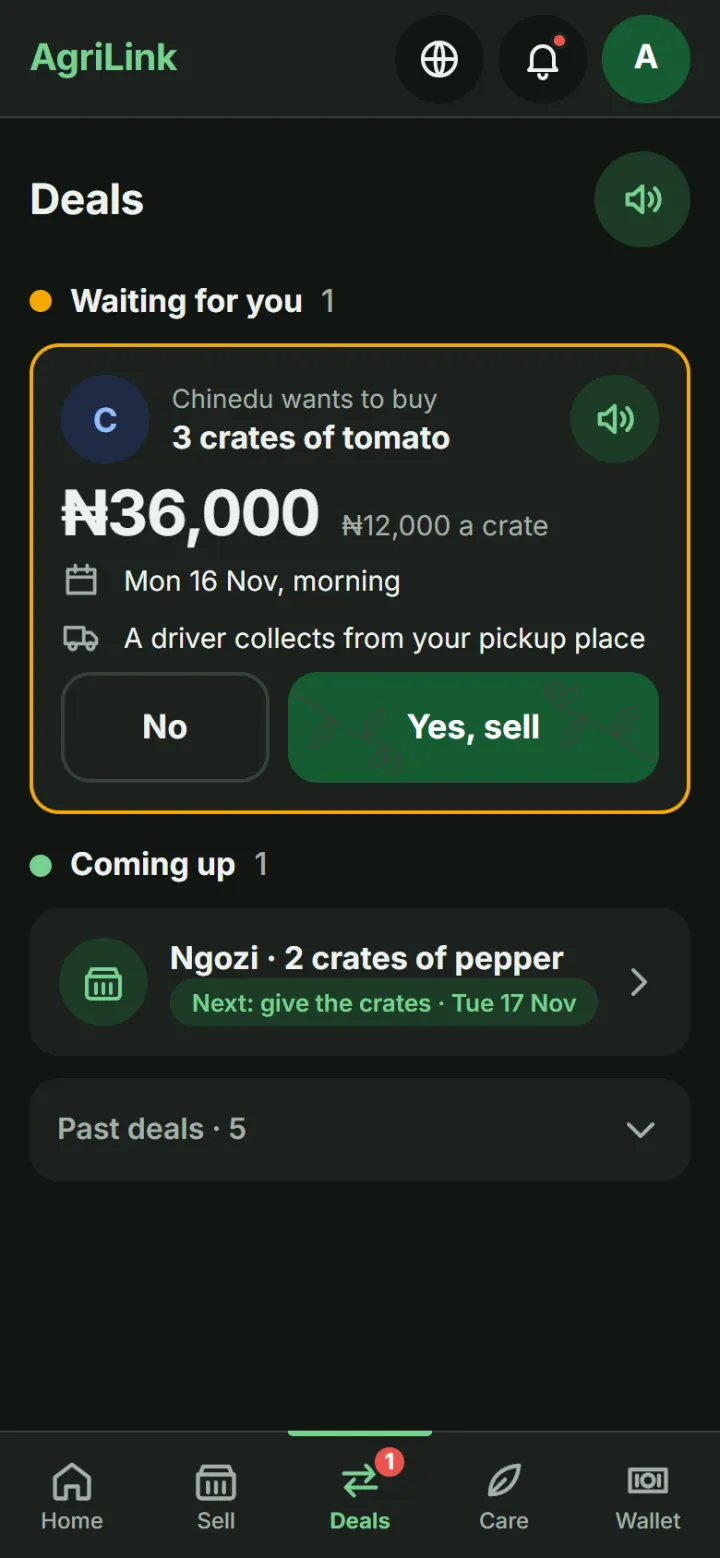
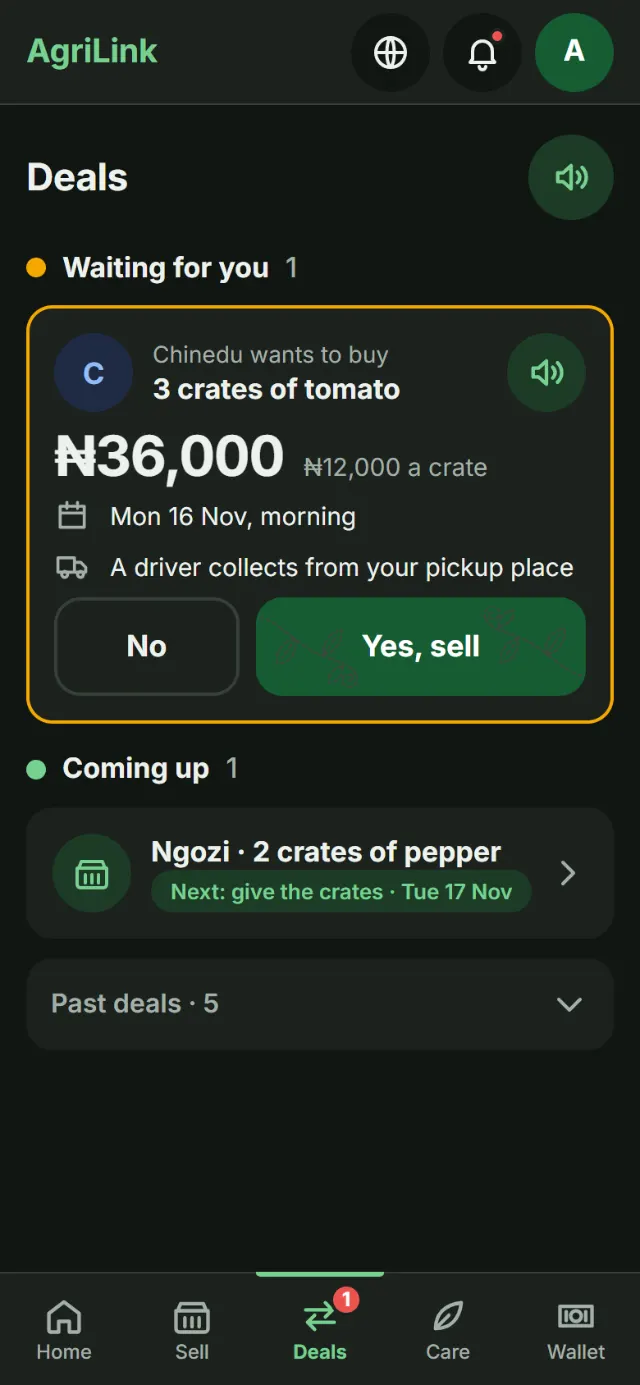
iPad fixes: still word on touch screens, faster screenshots, full offline copy
- Touch screens (phones, tablets) get the still version of the AGRILINK word
  and no scroll-linked motion: there the page scroll is drawn before the
  script can hold the story panel in place, so the panel jumped (seen on iPad).
  Mouse and trackpad screens keep the full effect.
- How it works: only the current theme's screenshot is fetched; the first one
  at once, the others about a screen and a half before they are reached
  (Safari's own lazy loading starts very late). Screenshots are now 640 px
  wide (sharp at 2x on the phone frame), 475 KB -> 393 KB for all ten.
- Offline: version 20. The first view is saved while the worker installs; a few
  seconds after load the rest (both themes' screenshots, photos, icons) is
  saved one file at a time. The films are never saved. Old copies are removed.

Changed region(s): [[0.75, 0.4036, 0.7812, 0.4347]]

diff --git a/index.html b/index.html
@@ -35,9 +35,9 @@
     d.classList.add('js');
   })();
 </script>
-<link rel="stylesheet" href="./base.css?v=19">
-<link rel="stylesheet" href="./hero.css?v=19">
-<link rel="stylesheet" href="./pitch.css?v=19">
+<link rel="stylesheet" href="./base.css?v=20">
+<link rel="stylesheet" href="./hero.css?v=20">
+<link rel="stylesheet" href="./pitch.css?v=20">
 </head>
 <body>
 <svg width="0" height="0" style="position:absolute" aria-hidden="true">
@@ -137,23 +137,23 @@
     </div>
     <div class="services">
       <article>
-        <figure class="shot" data-speed="0.04" data-max="16"><img class="shot-light" src="./assets/app/screen-sell-light.webp" width="720" height="1558" loading="lazy" decoding="async" alt="AgriLink screen, Sell a harvest, step 4 of 4, Is this right?: Tomato, 20 crates, 12,000 naira a crate, the collection days and the pickup place, with a Start selling button."><img class="shot-dark" src="./assets/app/screen-sell-dark.webp" width="720" height="1558" loading="lazy" decoding="async" alt="AgriLink screen, Sell a harvest, step 4 of 4, Is this right?: Tomato, 20 crates, 12,000 naira a crate, the collection days and the pickup place, with a Start selling button."></figure>
+        <figure class="shot" data-speed="0.04" data-max="16"><img class="shot-light" src="./assets/app/screen-sell-light.webp" width="640" height="1385" loading="lazy" decoding="async" alt="AgriLink screen, Sell a harvest, step 4 of 4, Is this right?: Tomato, 20 crates, 12,000 naira a crate, the collection days and the pickup place, with a Start selling button."><img class="shot-dark" src="./assets/app/screen-sell-dark.webp" width="640" height="1385" loading="lazy" decoding="async" alt="AgriLink screen, Sell a harvest, step 4 of 4, Is this right?: Tomato, 20 crates, 12,000 naira a crate, the collection days and the pickup place, with a Start selling button."></figure>
         <div><small><svg class="ico" aria-hidden="true"><use href="#i-crate"/></svg>Step 1</small><h3>List your crates</h3><p>Tap Tomato or Pepper, set the number of crates and the price, and choose when buyers can collect. With no signal, it saves on the phone and sends later.</p></div>
       </article>
       <article>
-        <figure class="shot" data-speed="0.04" data-max="16"><img class="shot-light" src="./assets/app/screen-deals-light.webp" width="720" height="1558" loading="lazy" decoding="async" alt="AgriLink screen, Deals: Chinedu wants to buy 3 crates of tomato for 36,000 naira, 12,000 naira a crate, with No and Yes, sell buttons."><img class="shot-dark" src="./assets/app/screen-deals-dark.webp" width="720" height="1558" loading="lazy" decoding="async" alt="AgriLink screen, Deals: Chinedu wants to buy 3 crates of tomato for 36,000 naira, 12,000 naira a crate, with No and Yes, sell buttons."></figure>
+        <figure class="shot" data-speed="0.04" data-max="16"><img class="shot-light" src="./assets/app/screen-deals-light.webp" width="640" height="1385" loading="lazy" decoding="async" alt="AgriLink screen, Deals: Chinedu wants to buy 3 crates of tomato for 36,000 naira, 12,000 naira a crate, with No and Yes, sell buttons."><img class="shot-dark" src="./assets/app/screen-deals-dark.webp" width="640" height="1385" loading="lazy" decoding="async" alt="AgriLink screen, Deals: Chinedu wants to buy 3 crates of tomato for 36,000 naira, 12,000 naira a crate, with No and Yes, sell buttons."></figure>
         <div><small><svg class="ico" aria-hidden="true"><use href="#i-exchange"/></svg>Step 2</small><h3>Receive offers directly from buyers</h3><p>Buyers make an offer. The farmer sees the price for each crate and what they will get, then answers Yes or No. Phone numbers stay private.</p></div>
       </article>
       <article>
-        <figure class="shot" data-speed="0.04" data-max="16"><img class="shot-light" src="./assets/app/screen-driver-light.webp" width="720" height="1558" loading="lazy" decoding="async" alt="AgriLink screen, a buyer following a delivery: a map of the route to Bunkure, the steps Sold, Picked up, On the road and Arrived, and Musa is your driver."><img class="shot-dark" src="./assets/app/screen-driver-dark.webp" width="720" height="1558" loading="lazy" decoding="async" alt="AgriLink screen, a buyer following a delivery: a map of the route to Bunkure, the steps Sold, Picked up, On the road and Arrived, and Musa is your driver."></figure>
+        <figure class="shot" data-speed="0.04" data-max="16"><img class="shot-light" src="./assets/app/screen-driver-light.webp" width="640" height="1385" loading="lazy" decoding="async" alt="AgriLink screen, a buyer following a delivery: a map of the route to Bunkure, the steps Sold, Picked up, On the road and Arrived, and Musa is your driver."><img class="shot-dark" src="./assets/app/screen-driver-dark.webp" width="640" height="1385" loading="lazy" decoding="async" alt="AgriLink screen, a buyer following a delivery: a map of the route to Bunkure, the steps Sold, Picked up, On the road and Arrived, and Musa is your driver."></figure>
         <div><small><svg class="ico" aria-hidden="true"><use href="#i-truck"/></svg>Step 3</small><h3>Find a driver</h3><p>For delivery, AgriLink finds a driver. The buyer can follow the truck on a map, and both sides confirm how many crates arrived.</p></div>
       </article>
       <article>
-        <figure class="shot" data-speed="0.04" data-max="16"><img class="shot-light" src="./assets/app/screen-cold-light.webp" width="720" height="1558" loading="lazy" decoding="async" alt="AgriLink screen, Keep crates cold: Tomato with 40 crates left is chosen, 10 crates for 3 days, Cold Room A in Kura is chosen, and the Book button is ready."><img class="shot-dark" src="./assets/app/screen-cold-dark.webp" width="720" height="1558" loading="lazy" decoding="async" alt="AgriLink screen, Keep crates cold: Tomato with 40 crates left is chosen, 10 crates for 3 days, Cold Room A in Kura is chosen, and the Book button is ready."></figure>
+        <figure class="shot" data-speed="0.04" data-max="16"><img class="shot-light" src="./assets/app/screen-cold-light.webp" width="640" height="1385" loading="lazy" decoding="async" alt="AgriLink screen, Keep crates cold: Tomato with 40 crates left is chosen, 10 crates for 3 days, Cold Room A in Kura is chosen, and the Book button is ready."><img class="shot-dark" src="./assets/app/screen-cold-dark.webp" width="640" height="1385" loading="lazy" decoding="async" alt="AgriLink screen, Keep crates cold: Tomato with 40 crates left is chosen, 10 crates for 3 days, Cold Room A in Kura is chosen, and the Book button is ready."></figure>
         <div><small><svg class="ico" aria-hidden="true"><use href="#i-snow"/></svg>Step 4</small><h3>Book cold-room space</h3><p>Crates that cannot go today can wait in a cold room, booked from the phone. In the demo, the cold rooms are examples and nothing is charged.</p></div>
       </article>
       <article>
-        <figure class="shot" data-speed="0.04" data-max="16"><img class="shot-light" src="./assets/app/screen-plant-light.webp" width="720" height="1558" loading="lazy" decoding="async" alt="AgriLink screen, Plant check: a photo of a tomato leaf with spots, Possibly leaf spot, and three simple steps under What to do."><img class="shot-dark" src="./assets/app/screen-plant-dark.webp" width="720" height="1558" loading="lazy" decoding="async" alt="AgriLink screen, Plant check: a photo of a tomato leaf with spots, Possibly leaf spot, and three simple steps under What to do."></figure>
+        <figure class="shot" data-speed="0.04" data-max="16"><img class="shot-light" src="./assets/app/screen-plant-light.webp" width="640" height="1385" loading="lazy" decoding="async" alt="AgriLink screen, Plant check: a photo of a tomato leaf with spots, Possibly leaf spot, and three simple steps under What to do."><img class="shot-dark" src="./assets/app/screen-plant-dark.webp" width="640" height="1385" loading="lazy" decoding="async" alt="AgriLink screen, Plant check: a photo of a tomato leaf with spots, Possibly leaf spot, and three simple steps under What to do."></figure>
         <div><small><svg class="ico" aria-hidden="true"><use href="#i-leaf"/></svg>And more</small><h3>Check a sick plant</h3><p>A photo of a leaf gives a first idea of what may be wrong and simple steps for today. It is guidance, not a diagnosis.</p></div>
       </article>
     </div>
@@ -262,8 +262,8 @@
   </div>
 </footer>
 
-<script src="./hero.js?v=19"></script>
-<script src="./pitch.js?v=19"></script>
-<script src="./app.js?v=19"></script>
+<script src="./hero.js?v=20"></script>
+<script src="./pitch.js?v=20"></script>
+<script src="./app.js?v=20"></script>
 </body>
 </html>

diff --git a/sw.js b/sw.js
@@ -1,26 +1,45 @@
-// Network first, the cached copy when offline. A new cache name for each release: the old one is deleted on
-// activate, so returning visitors get the new site (v19: light and dark app screenshots, new Step 1 and Step 4).
-const cacheName = 'agrilink-site-v19';
+// Offline copy of the site. Network first, the saved copy when offline. Version 20: after the first visit the
+// whole site (both light and dark screenshots, photos, fonts, icons) is saved quietly in the background, so it
+// opens complete offline. Each version has its own cache; old ones are deleted when this one takes over.
+// All paths are relative, so this works at the github.io sub-folder (/agrilink/) too. The films (.mp4) are
+// never saved.
+const cacheName = 'agrilink-site-v20';
 // The ?v= on styles and scripts matches index.html, so a new page never runs an old script from a browser cache.
-const v = '?v=19';
+const v = '?v=20';
+// What the first view needs: saved while the worker installs.
 const core = ['./', './index.html', './base.css' + v, './hero.css' + v, './pitch.css' + v, './hero.js' + v, './pitch.js' + v, './app.js' + v,
-  './assets/word.svg', './assets/harvest.jpg', './assets/favicon.svg', './assets/fonts/inter-latin.woff2', './assets/fonts/inter-latin-ext.woff2',
-  './assets/happy-farmers-720.webp']; // screenshots and photos are kept as they are viewed (below);
-self.addEventListener('install', (event) => event.waitUntil(caches.open(cacheName).then((cache) => cache.addAll(core.map((url) => new Request(url, { cache: 'reload' })))).then(() => self.skipWaiting())));
+  './assets/word.svg', './assets/harvest.jpg', './assets/favicon.svg', './assets/fonts/inter-latin.woff2', './assets/fonts/inter-latin-ext.woff2'];
+// Everything else: saved after the page has loaded (the page asks, see app.js), one file at a time.
+const rest = ['./assets/happy-farmers-720.webp', './assets/happy-farmers.webp', './assets/happy-farmers.jpg', './assets/tomato.webp', './assets/pepper.webp',
+  './assets/apple-touch-icon.png', './assets/og-image.jpg',
+  ...['sell', 'deals', 'driver', 'cold', 'plant'].flatMap((n) => [`./assets/app/screen-${n}-light.webp`, `./assets/app/screen-${n}-dark.webp`])];
+
+const fresh = (url) => new Request(url, { cache: 'reload' });
+self.addEventListener('install', (event) => event.waitUntil(caches.open(cacheName).then((cache) => cache.addAll(core.map(fresh))).then(() => self.skipWaiting())));
 self.addEventListener('activate', (event) => event.waitUntil(
-  caches.keys().then((keys) => Promise.all(keys.filter((k) => k !== cacheName).map((k) => caches.delete(k)))).then(() => self.clients.claim())));
+  caches.keys().then((keys) => Promise.all(keys.filter((k) => k.startsWith('agrilink-') && k !== cacheName).map((k) => caches.delete(k)))).then(() => self.clients.claim())));
+
+async function saveRest() {
+  const cache = await caches.open(cacheName);
+  for (const url of rest) {
+    if (await cache.match(url)) continue; // already saved (for example, seen on the page)
+    try { const res = await fetch(fresh(url)); if (res.ok) await cache.put(url, res); } catch { /* offline now: try again next visit */ }
+  }
+}
+self.addEventListener('message', (event) => { if (event.data === 'save-rest') event.waitUntil(saveRest()); });
+
 self.addEventListener('fetch', (event) => {
   const request = event.request;
   if (request.method !== 'GET' || new URL(request.url).origin !== location.origin || request.headers.has('range')) return;
   event.respondWith(fetch(request).then((res) => {
-    // keep a fresh copy of what was loaded (so lazy images work offline after one visit)
+    // keep a fresh copy of what was loaded
     if (res.ok && res.type === 'basic' && !request.url.endsWith('.mp4')) { const copy = res.clone(); caches.open(cacheName).then((c) => c.put(request, copy)).catch(() => {}); }
     return res;
   }).catch(async () => {
     const cache = await caches.open(cacheName);
     const cached = await cache.match(request, { ignoreSearch: true });
     if (cached) return cached;
-    if (request.mode === 'navigate') return (await cache.match('./index.html')) || Response.error();
+    if (request.mode === 'navigate') return (await cache.match('./index.html')) || (await cache.match('./')) || Response.error();
     return Response.error();
   }));
 });

diff --git a/pitch.js b/pitch.js
@@ -13,7 +13,9 @@ const landing = home.querySelector('.landing');
 const runway = home.querySelector('.hero-runway');
 const storyLines = [...document.querySelectorAll('#intro .story .line')];
 const motionPreference = matchMedia('(prefers-reduced-motion: reduce)');
-const moving = () => !motionPreference.matches;
+// Touch screens get the still version too (see hero.css): scroll-linked motion jumps there.
+const touchScreen = matchMedia('(hover: none), (pointer: coarse)');
+const moving = () => !motionPreference.matches && !touchScreen.matches;
 const clamp01 = (x) => Math.min(1, Math.max(0, x));
 
 // Classes that switch the motion on. Without this script (or with reduced motion) nothing waits to appear.
@@ -70,7 +72,7 @@ function readStory() {
 const layers = [];
 const active = new Set();
 function setUpParallax() {
-  if (!('IntersectionObserver' in window)) return;
+  if (!('IntersectionObserver' in window) || !moving()) return; // none on touch screens or with reduced motion
   document.querySelectorAll('[data-speed]').forEach((el) => {
     if (el.closest('.feature-stage')) return;
     layers.push({ el, speed: Number(el.dataset.speed) || 0, max: Number(el.dataset.max) || 24, y: 0 });
@@ -207,6 +209,31 @@ function buildFeatureStage() {
   if (head) new IntersectionObserver((entries) => { if (entries.some((e) => e.isIntersecting)) selectFeature(0); }, { rootMargin: '-48% 0px -48% 0px' }).observe(head);
 }
 
+/* ---------- "How it works" screens: only the current theme's image, fetched before it is needed ---------- */
+// Both a light and a dark image sit in each phone frame; the other theme's one is hidden and is never fetched.
+// The first screen loads at once; the rest load when the section is still well below the screen (Safari's own
+// lazy loading starts very late). A theme switch loads the newly shown ones.
+const nearSteps = new Set();
+function showScreens(scope) {
+  scope.querySelectorAll('.shot img').forEach((img) => { if (img.loading !== 'eager' && img.getClientRects().length) img.loading = 'eager'; }); // only images that are shown (theme, layout)
+}
+function loadScreens() {
+  nearSteps.forEach(showScreens);
+  const stage = document.querySelector('.feature-stage'); // wide screens: the sticky phone shows every step
+  if (stage && nearSteps.size) showScreens(stage);
+}
+const steps = [...document.querySelectorAll('.services article')];
+if (steps[0]) nearSteps.add(steps[0]); // the first screen at once
+loadScreens();
+if ('IntersectionObserver' in window) {
+  const near = new IntersectionObserver((entries) => {
+    for (const e of entries) if (e.isIntersecting) { nearSteps.add(e.target); near.unobserve(e.target); }
+    loadScreens();
+  }, { rootMargin: '900px 0px' }); // about one screen and a half ahead
+  steps.forEach((step) => near.observe(step));
+} else steps.forEach((step) => nearSteps.add(step));
+themeButton.addEventListener('click', loadScreens);
+
 /* ---------- reveal sections once ---------- */
 function setUpReveals() {
   if (!('IntersectionObserver' in window) || !moving()) { document.querySelectorAll('.reveal').forEach((el) => el.classList.add('in')); return; }
@@ -237,6 +264,6 @@ cinema.addEventListener('close', () => film.pause());
 cinema.addEventListener('click', (e) => { if (e.target === cinema) cinema.close(); });
 
 // The parts below the fold wait until the page has loaded and the browser is idle.
-const later = () => { setUpReveals(); buildFeatureStage(); setUpParallax(); schedule(); };
+const later = () => { setUpReveals(); buildFeatureStage(); loadScreens(); setUpParallax(); schedule(); };
 const whenIdle = () => ('requestIdleCallback' in window ? requestIdleCallback(later, { timeout: 1500 }) : setTimeout(later, 300));
 if (document.readyState === 'complete') whenIdle(); else addEventListener('load', whenIdle, { once: true });

diff --git a/hero.css b/hero.css
@@ -40,9 +40,12 @@
 .motion { position: absolute; right: 3%; bottom: 24px; min-height: 48px; padding: 10px 16px; border: 0; border-radius: 999px; background: var(--card); color: var(--text); font-size: 13px; font-weight: 600; cursor: pointer; display: inline-flex; align-items: center; gap: 6px; }
 .motion .ico { width: 16px; height: 16px; }
 @media (max-width: 700px) { .motion { right: 12px; } }
-@media (prefers-reduced-motion: reduce) { .landing { padding: 2vh 4vw 96px; } }
+@media (prefers-reduced-motion: reduce), (hover: none), (pointer: coarse) { .landing { padding: 2vh 4vw 96px; } }
 
-@media (prefers-reduced-motion: no-preference) {
+/* The scroll-linked film effect runs only with a mouse or trackpad. On touch screens (phones, tablets) the page
+   scroll is drawn ahead of the script, so the story panel that the script holds in place visibly jumps
+   (seen on iPad). There the word stays still with the film inside it, like the reduced-motion version. */
+@media (prefers-reduced-motion: no-preference) and (hover: hover) and (pointer: fine) {
   .hero-runway { height: 300svh; margin-bottom: -100svh; background: var(--surface); }
   :root { --word-w: min(96vw, 2000px); --word-h: calc(var(--word-w) * 187 / 900); --word-y: calc(68px + clamp(8px, 2svh, 24px)); } /* below the sticky header (68px) when the stage is pinned */
   .hero-runway .landing { position: sticky; top: 0; height: 100svh; padding: 0; }

diff --git a/app.js b/app.js
@@ -1,2 +1,9 @@
 // Offline after one visit (see sw.js). A new site version takes over at once (skipWaiting) on the next load.
-if ('serviceWorker' in navigator && location.protocol !== 'file:') navigator.serviceWorker.register('./sw.js').catch(() => {});
+// A few seconds after the page has loaded, the worker is asked to save the rest of the site (both themes'
+// screenshots and the photos) quietly, so it never competes with the first view.
+if ('serviceWorker' in navigator && location.protocol !== 'file:') {
+  navigator.serviceWorker.register('./sw.js').catch(() => {});
+  const askToSave = () => navigator.serviceWorker.ready.then((reg) => reg.active && reg.active.postMessage('save-rest')).catch(() => {});
+  const later = () => setTimeout(() => ('requestIdleCallback' in window ? requestIdleCallback(askToSave, { timeout: 4000 }) : askToSave()), 3000);
+  if (document.readyState === 'complete') later(); else addEventListener('load', later, { once: true });
+}

diff --git a/README.md b/README.md
@@ -21,7 +21,7 @@ The "Watch the 2-minute demo" button, the Demo menu item and the Demo section ar
 
 1. Add the film as `assets/agrilink-demo.mp4` (MP4, H.264 video, AAC audio, 1280×720 or 1920×1080, under 25 MB).
 2. In `pitch.js`, change `const DEMO_VIDEO_AVAILABLE = false;` to `true`.
-3. Raise the version by one so returning visitors get the change: in `sw.js`, `agrilink-site-v19` and `?v=19` become `v20`; in `index.html`, the six `?v=19` on the style and script links become `?v=20`.
+3. Raise the version by one so returning visitors get the change: in `sw.js`, `agrilink-site-v20` and `?v=20` become `v21`; in `index.html`, the six `?v=20` on the style and script links become `?v=21`.
 4. Commit and push.
 
 While the switch is `false`, the page never asks for the file, so there is no error in the console.
